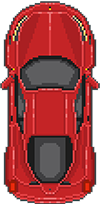
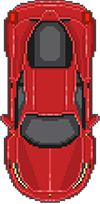
re commit

diff --git a/js/game.js b/js/game.js
@@ -1,8 +1,3 @@
-// general idea here is cars show up in a grid in any lane but not covering all 3 lanes
-// if cars overlap in grid it is regenerated so as to not overlap
-// cars move down individually, the grid is just for generation purpose
-// here cars means boxes :)
-
 var WIDTH = 300;
 var HEIGHT = 700;
 var GUNDA_GRID_NUMBER = 3;
@@ -20,6 +15,10 @@ function Car(x, y) {
   this.color = "#000";
   this.hasCrashed = false;
   this.score = 0;
+
+  this.carImageSrc = "./images/car.png";
+  this.carSprite = new Image();
+  this.carSprite.src = this.carImageSrc;
 
   this.moveRight = () => {
     if (this.position.x !== 200) {
@@ -61,6 +60,10 @@ function Gunda() {
   this.height = 100;
   this.hasCrossedPlayer = false;
 
+  this.gundaImageSrc = "./images/gunda.png";
+  this.gundaSprite = new Image();
+  this.gundaSprite.src = this.gundaImageSrc;
+
   this.update = () => {
     this.position = addVectors(this.position, this.velocity);
   };
@@ -83,6 +86,7 @@ function GundaGrid() {
     }
     return gundas;
   };
+
   this.gundas = generateGundas();
 
   this.isGundaGridGone = () => {
@@ -105,10 +109,11 @@ function GundaGrid() {
 }
 
 function Canvas() {
+  var gameDiv = document.querySelector("#game");
   this.updateCalled = 0;
   this.canvas = document.createElement("canvas");
   this.ctx = this.canvas.getContext("2d");
-  document.body.appendChild(this.canvas);
+  gameDiv.appendChild(this.canvas);
 
   this.canvas.width = WIDTH;
   this.canvas.height = HEIGHT;
@@ -160,9 +165,13 @@ function Canvas() {
     this.ctx.clearRect(0, 0, this.canvas.width, this.canvas.height);
 
     // fill player car
-
-    this.ctx.fillStyle = this.myCar.color;
-    this.ctx.fillRect(this.myCar.position.x, this.myCar.position.y, 100, 100);
+    this.ctx.drawImage(
+      this.myCar.carSprite,
+      this.myCar.position.x,
+      this.myCar.position.y,
+      100,
+      100
+    );
 
     // player/gunda interaction
     for (var i = 0; i < this.myGundas.length; i++) {
@@ -176,22 +185,22 @@ function Canvas() {
       var myGundaGrid = this.myGundaGridList[i].gundas;
       for (var j = 0; j < myGundaGrid.length; j++) {
         var gunda = this.myGundaGridList[i].gundas[j];
-        this.ctx.fillStyle = gunda.color;
-        this.ctx.fillRect(gunda.position.x, gunda.position.y, 100, 100);
+
+        this.ctx.save();
+        this.ctx.drawImage(
+          gunda.gundaSprite,
+          gunda.position.x,
+          gunda.position.y,
+          100,
+          100
+        );
+        this.ctx.restore();
+
         gunda.update();
         this.myGundas.push(gunda);
       }
       this.myGundaGridList[i].update();
     }
-    // if (this.updateCalled % 1000 === 0) {
-    //   console.log('call bhayo hai');
-    //   for (const gundaGrid of this.myGundaGridList) {
-    //     for (const gunda of gundaGrid.gundas) {
-    //       gunda.velocity = addVectors(gunda.velocity, this.paceIncrement);
-    //       this.paceIncrement.y += 0.01;
-    //     }
-    //   }
-    // }
 
     this.ctx.fillStyle = "#FCE75B";
     this.ctx.font = "18pt san-serif";

diff --git a/index.html b/index.html
@@ -1,12 +1,14 @@
 <!DOCTYPE html>
 <html lang="en">
-<head>
-    <meta charset="UTF-8">
-    <meta http-equiv="X-UA-Compatible" content="IE=edge">
-    <meta name="viewport" content="width=device-width, initial-scale=1.0">
+  <head>
+    <meta charset="UTF-8" />
+    <meta http-equiv="X-UA-Compatible" content="IE=edge" />
+    <meta name="viewport" content="width=device-width, initial-scale=1.0" />
+    <link rel="stylesheet" href="./style.css" />
     <title>game</title>
-</head>
-<body>
+  </head>
+  <body>
+      <div id="game"></div>
     <script src="./js/game.js"></script>
-</body>
+  </body>
 </html>

diff --git a/style.css b/style.css
@@ -1,0 +1,5 @@
+#game {
+    display: flex;
+    justify-content: center;
+    align-items: center;
+}
